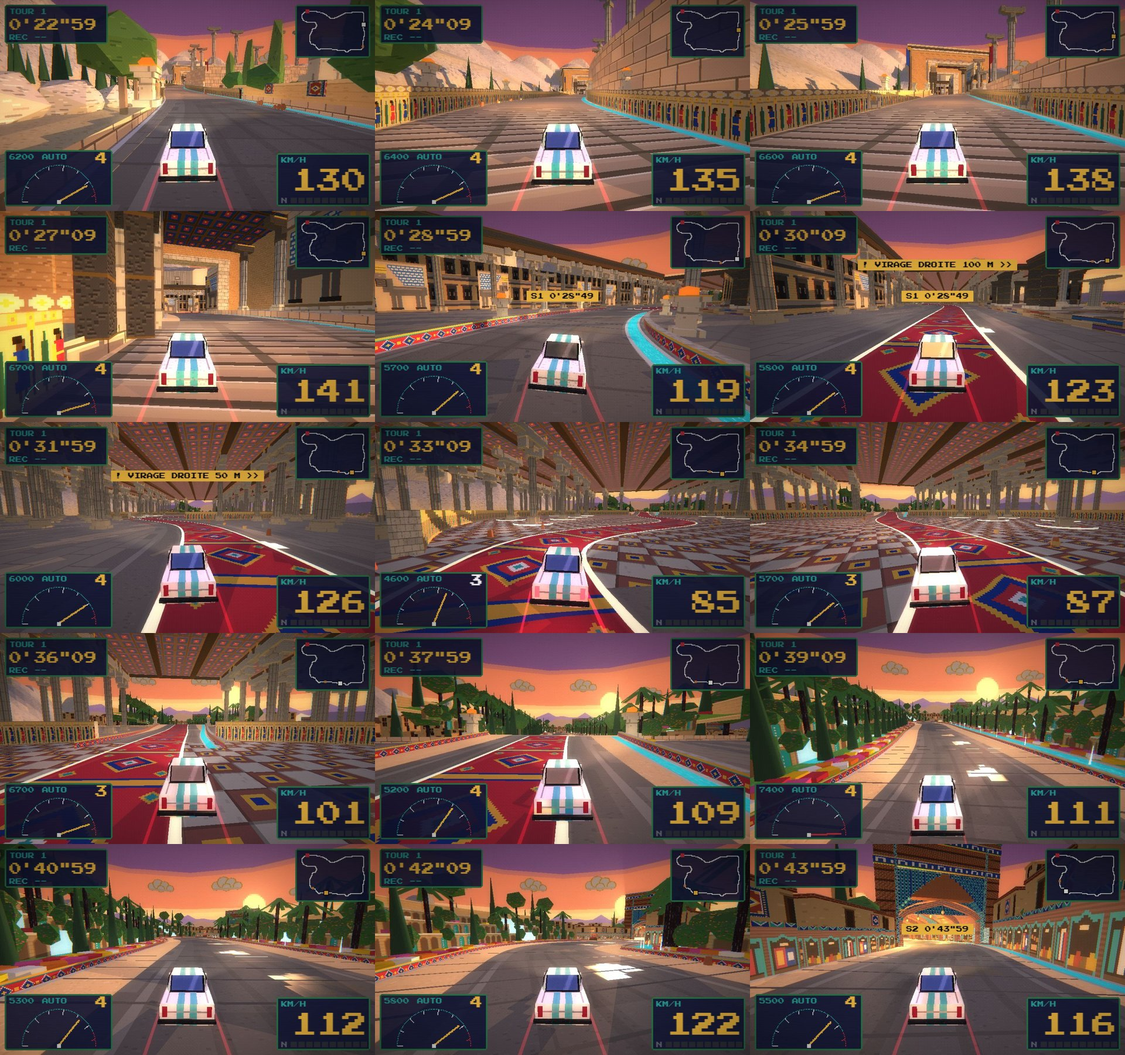
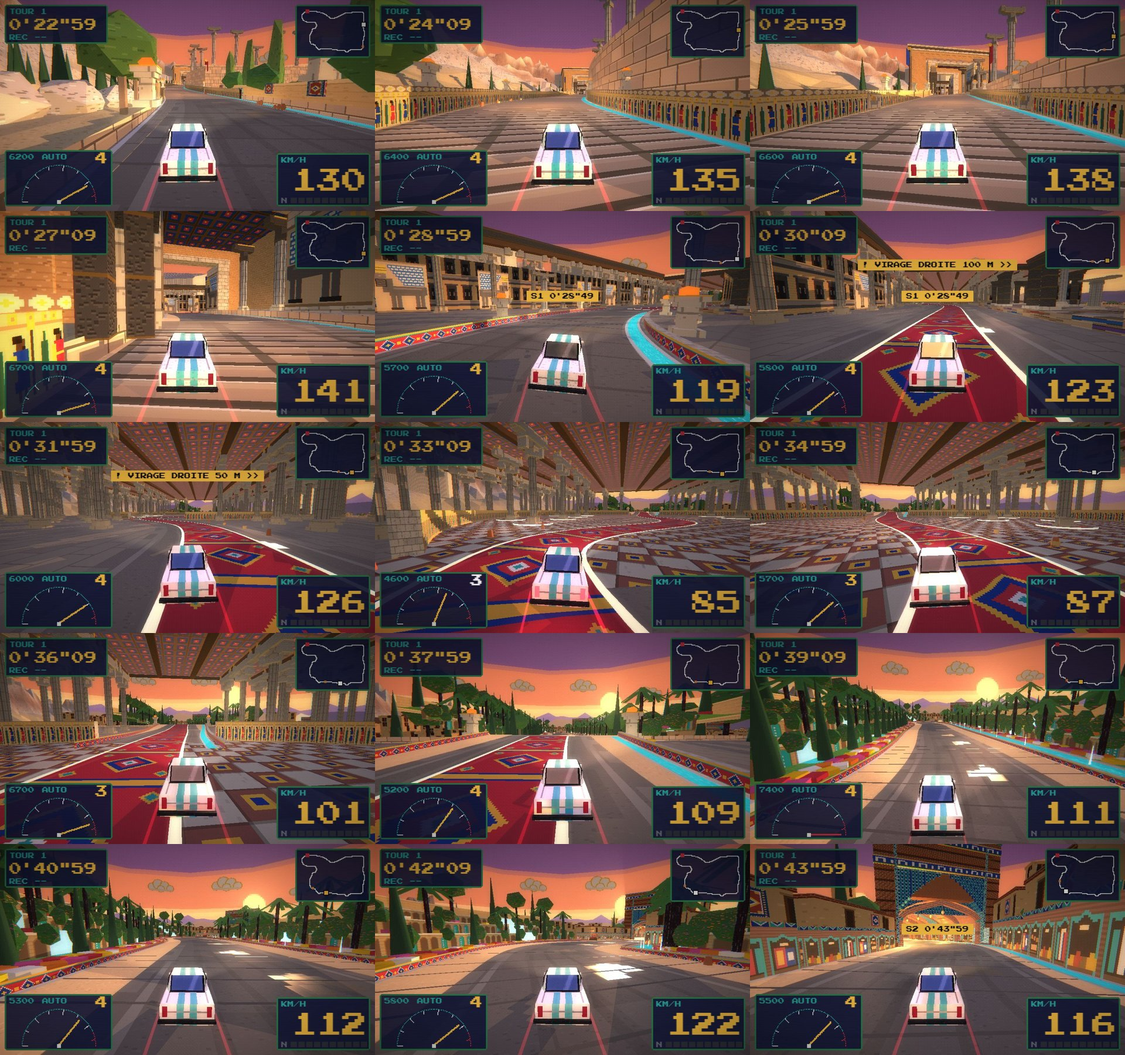
perse, la montagne du premier virage : arêtes vives et bancs de calcaire en gradins à la place des bosses rondes (on lisait des dunes), fronts des bancs en roche brune et crêtes hautes dorées par le couchant ; planches du tour refaites

diff --git a/decors.js b/decors.js
@@ -1747,12 +1747,16 @@
       const TP = [[TXO, TZ], [AX0, TZ], [AX0, AZ], [rampeD[0][0], AZ], ...rampeD, [TXE, rampeD[rampeD.length - 1][1]], [TXE, TZS], [TXO, TZS]];
       const PIED = [[900, -420], [760, -160], [722, -10], [720, 400], [708, 566], [520, 578], [300, 590], [120, 640], [-150, 780]]; // le pied du Kuh-e Rahmat : la montagne est à gauche de cette ligne
       const dMont = (x, z) => { let bd = 1e9, cote = 0; for (let k = 0; k < PIED.length - 1; k++) { const [ax, az] = PIED[k], [bx, bz] = PIED[k + 1], dx = bx - ax, dz = bz - az, t = Math.max(0, Math.min(1, ((x - ax) * dx + (z - az) * dz) / (dx * dx + dz * dz))), ex = x - ax - dx * t, ez = z - az - dz * t, e = Math.hypot(ex, ez); if (e < bd) { bd = e; cote = dx * ez - dz * ex; } } return cote < 0 ? bd : 0; };
-      const hMont = (x, z) => { const d = dMont(x, z); if (d <= 0) return 0; const rav = Math.min(Math.abs(Math.sin(z / 41 + 0.5 * Math.sin(x / 57))), Math.abs(Math.sin(x / 47 + 0.4 * Math.sin(z / 63)))); // des ravines qui descendent la pente : une montagne de calcaire, pas une dune
-        return 230 * (1 - Math.exp(-d / 140)) * (0.62 + 0.38 * rav) * (0.85 + 0.15 * Math.sin(x / 131 + z / 97)); };
+      // le relief du Kuh-e Rahmat : des arêtes vives (1 - |sin|, deux familles déformées) au lieu de bosses rondes (on lisait des dunes), et des bancs de calcaire : la pente se casse en gradins de 16 m
+      const arete = (x, z) => { const u = (x * 0.6 + z) / 45 + 1.2 * Math.sin(x / 71) + 0.8 * Math.sin(z / 53), v = (x - z * 0.5) / 23 + Math.sin(z / 37); return 0.77 * (1 - Math.abs(Math.sin(u))) + 0.23 * (1 - Math.abs(Math.sin(v))); };
+      const hMont = (x, z) => { const d = dMont(x, z); if (d <= 0) return 0; const y = 230 * (1 - Math.exp(-d / 140)) * (0.35 + 0.65 * arete(x, z)) * (0.8 + 0.2 * Math.sin(x / 131 + z / 97)), b = y / 16, fr = b - Math.floor(b);
+        return y < 10 ? y : 16 * (Math.floor(b) + ss(0.55, 0.95, fr)) * 0.6 + y * 0.4; };
       const basse = (x, z) => x < 648 && z < (x < AX0 - 14 ? TZ + 14 : AZ + 14) ? ss(140, 185, x) : 0; // la plaine et la ville basse : à plat, jusqu'à 14 m derrière le mur de la terrasse (la pente du maillage reste cachée derrière lui)
       const jard = S.slice(i20 + 3, i25 - 2);
       const g = terrain(h, { pas: 12, marge: 360, mat: h.mat('bruit', { flatShading: true }, '#cdb47c', ['#c2a86e', '#d6c08c', '#b89c64']),
-        couches: [{ tex: ['bruit', '#b9ad9c', ['#9c9080', '#d0c6b6', '#857a6c']], rep: 0.3, poids: (x, z, y, p) => Math.max(ss(0.1, 0.3, p), ss(22, 40, y)) * (dMont(x, z) > 0 ? 1 : 0) }], // le calcaire du Kuh-e Rahmat, sur ses pentes
+        couches: [{ tex: ['bruit', '#b9ad9c', ['#9c9080', '#d0c6b6', '#857a6c']], rep: 0.3, poids: (x, z, y, p) => Math.max(ss(0.1, 0.3, p), ss(22, 40, y)) * (dMont(x, z) > 0 ? 1 : 0) },
+          { tex: ['bruit', '#8e7460', ['#7a624e', '#a08670', '#6a5444']], rep: 0.3, poids: (x, z, y, p) => dMont(x, z) > 0 ? ss(0.3, 0.55, p) * ss(14, 30, y) : 0 }, // les fronts des bancs, plus raides : une roche brune, dans l'ombre
+          { tex: ['bruit', '#e2cfa4', ['#f0deb4', '#d0bc90', '#c8b088']], rep: 0.3, poids: (x, z, y, p) => dMont(x, z) > 0 ? ss(0.75, 0.95, arete(x, z)) * ss(60, 110, y) * (1 - ss(0.25, 0.45, p)) : 0 }], // les crêtes hautes, dorées par le couchant // le calcaire du Kuh-e Rahmat, sur ses pentes
         creux: (x, z, y) => { const k = basse(x, z); let c = y * (1 - k) - 0.5 * k; if (dansPoly(x, z, TP)) c = Math.min(c, YT - 0.4);
           if (x > 100 && x < TXO + 6 && z > TZ && z < 530) { let d = 1e9; for (const s of jard) d = Math.min(d, Math.hypot(s.x - x, s.z - z)); c -= 2.6 * ss(19, 25, d) * (1 - ss(60, 72, d)); } // les parterres du jardin : sous l'allée, en paliers (posés plus bas, à part)
           return y - (c + hMont(x, z)); } });
